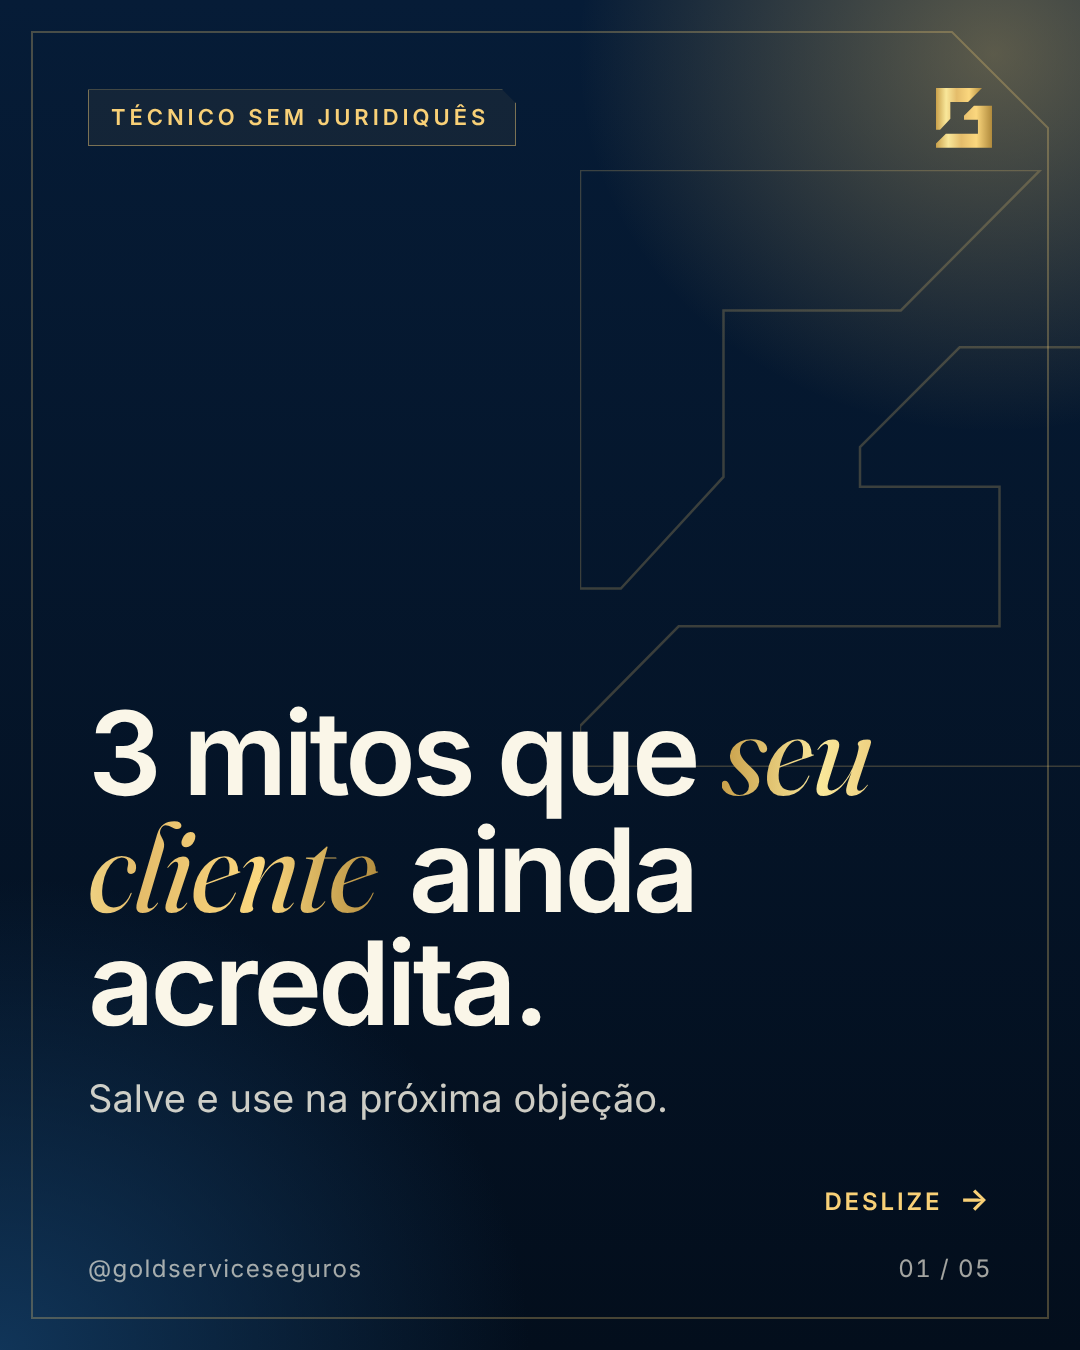
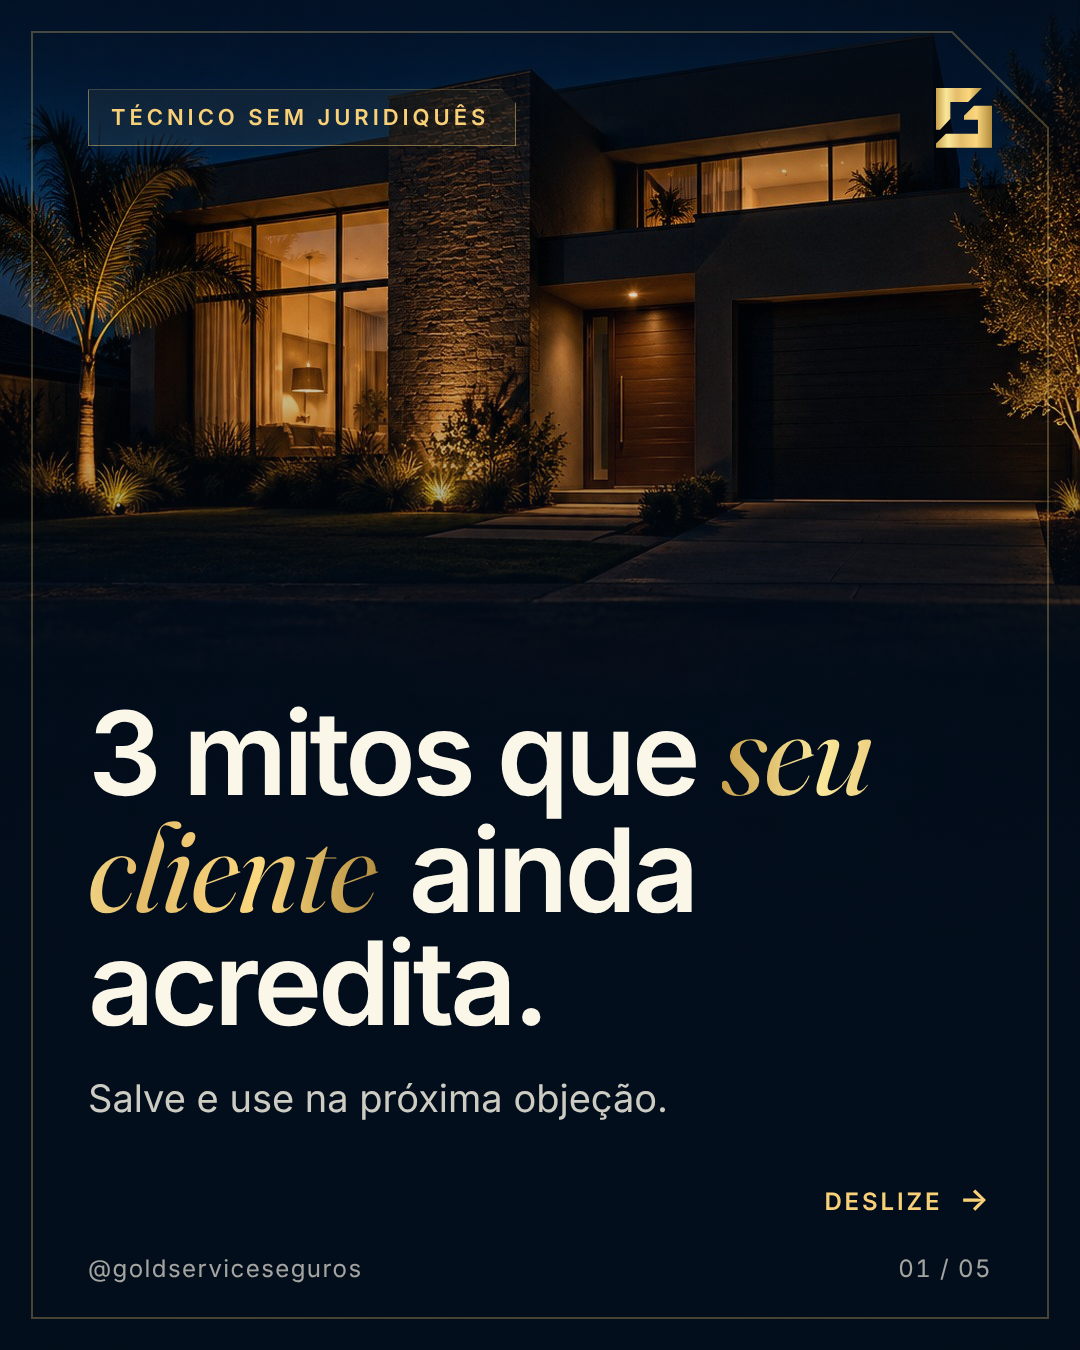
Aplica fotos geradas no Codex nas capas
Cinco fotos (agenda, carro, casa, celular, parceria) recortadas em 4:5
e aplicadas nas capas de renovação, sinistro, mitos, 20 minutos e
seja parceiro; degradê da foto reforçado no topo para o rótulo.

Claude-Session: https://claude.ai/code/session_01JwFLpMjxbA7XM1TmfeRS4r

diff --git a/brand/esteira/post.css b/brand/esteira/post.css
@@ -24,7 +24,7 @@ html, body { background: #222; }
 /* foto de fundo opcional (campo "imagem") */
 .foto { position: absolute; inset: 0; z-index: -1; background-size: cover; background-position: center; }
 .foto::after { content: ""; position: absolute; inset: 0;
-  background: linear-gradient(180deg, rgba(3, 14, 28, .15) 0%, rgba(3, 14, 28, .55) 45%, rgba(3, 14, 28, .96) 78%); }
+  background: linear-gradient(180deg, rgba(3, 14, 28, .7) 0%, rgba(3, 14, 28, .1) 16%, rgba(3, 14, 28, .25) 34%, rgba(3, 14, 28, .75) 52%, rgba(3, 14, 28, .97) 76%); }
 
 /* moldura com canto chanfrado (corte 45° do monograma) */
 .moldura { position: absolute; inset: 0; pointer-events: none; z-index: 0; }
@@ -72,6 +72,7 @@ strong { font-weight: 600; }
 .marca-dagua { position: absolute; right: -60px; top: 170px; width: 560px; opacity: .22; pointer-events: none; z-index: 0; }
 .marca-dagua .mono { width: 100%; color: var(--gold-100); }
 .tem-foto .marca-dagua { display: none; }
+.tem-foto .miolo { justify-content: flex-end; padding-bottom: var(--space-6); }
 .seta { position: absolute; right: var(--space-11); bottom: calc(var(--space-8) + 64px); font-size: var(--post-caption); font-weight: 600; letter-spacing: .12em; text-transform: uppercase; color: var(--gold-100); z-index: 1; }
 .ivory .seta { color: var(--gold-900); }
 .seta span { font-size: 1.3em; margin-left: 8px; }
